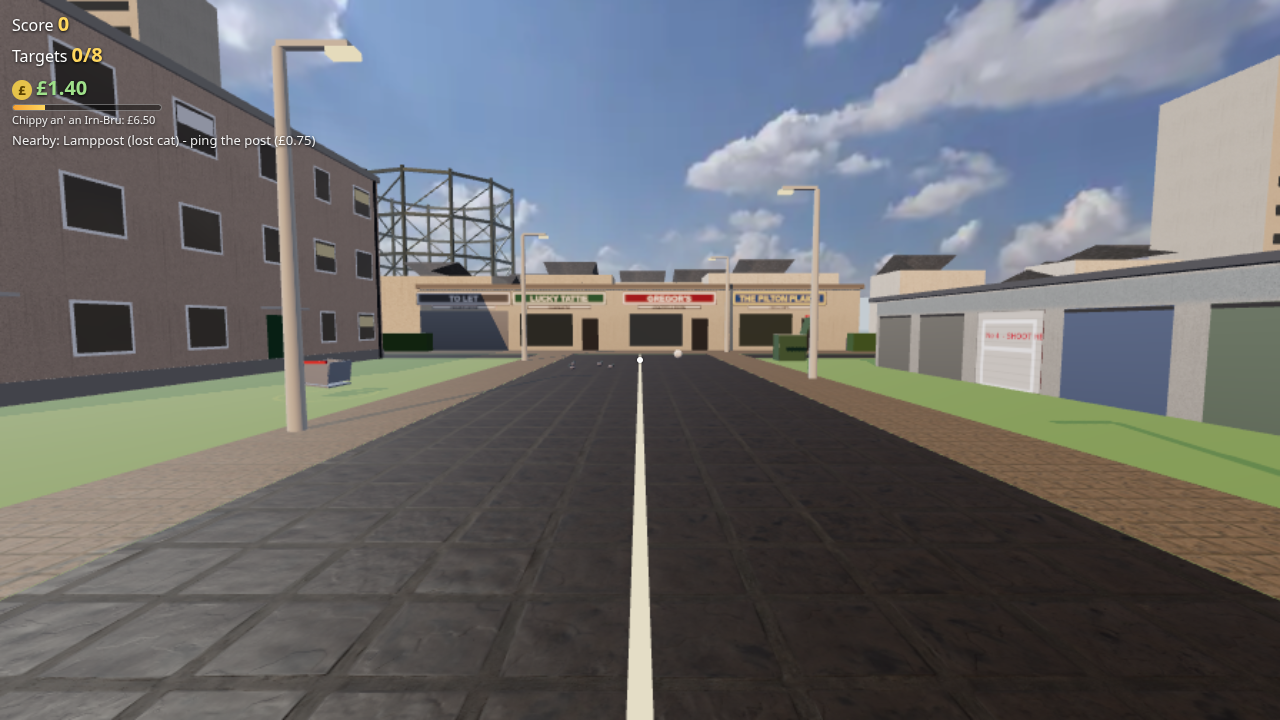
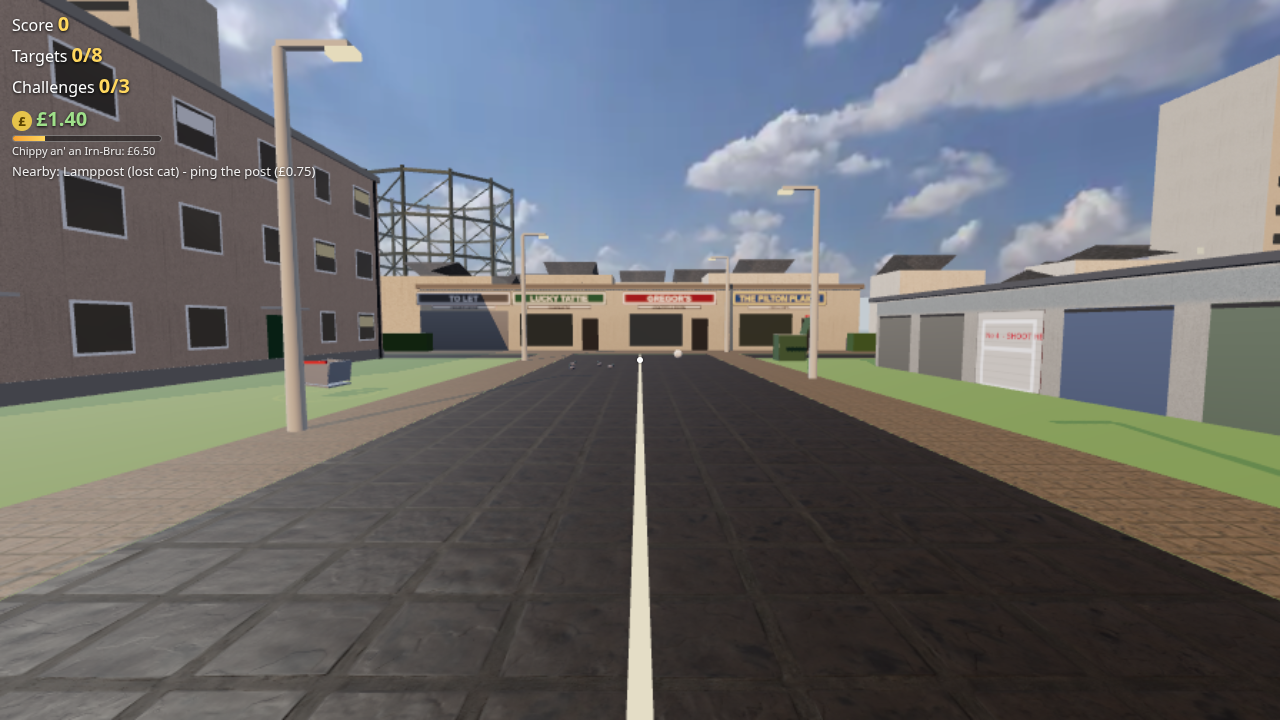
feat: experimental West Pilton challenges, unlocks (Winter ball, Mars bar), ball selector (checkpoint)

Changed region(s): [[0.0, 0.0917, 0.25, 0.2444]]

diff --git a/src/main.js b/src/main.js
@@ -4,7 +4,8 @@ import * as CANNON from 'cannon-es';
 import { HDRLoader } from 'three/examples/jsm/loaders/HDRLoader.js';
 import { PRESET, PRESET_SOURCE, SHOW_PERF, DYNRES, choosePreset } from './settings.js';
 import { LEVEL, LEVELS, LEVEL_ORDER, travelTo } from './levels/index.js';
-import { wallet, earn, buySupper, resetWallet, fmt, GOAL, BONUS, cashFor } from './wallet.js';
+import { unlocks, completeChallenge, selectBall, resetProgress, BALLS, ITEMS, REWARDS, saveUnlocks } from './unlocks.js';
+import { wallet, saveWallet, earn, buySupper, resetWallet, fmt, GOAL, BONUS, cashFor } from './wallet.js';
 import { ballTexture, skyTexture, texManager, texStats } from './textures.js';
 import { Sfx } from './audio.js';
 import { Controls } from './controls.js';
@@ -83,7 +84,9 @@ const G_STATIC = 1, G_PLAYER = 2, G_BALL = 4;
 const built = LEVEL.build(scene, world, mats, P);
 const { targets, dynamics, pigeons, materials, views } = built;
 const SPAWN_YAW = LEVEL.spawnYaw * Math.PI / 180, BOUNDS = LEVEL.bounds;
-const targetById = Object.fromEntries(targets.map((t) => [t.id, t]));
+const challenges = built.challenges || [];
+const allTargets = targets.concat(challenges); // challenges share the scoring code but have their own counter
+const targetById = Object.fromEntries(allTargets.map((t) => [t.id, t]));
 // Static bodies were positioned after construction: refresh their AABBs once, or AABB broadphase misses them.
 // (This stale-AABB effect is also what made SAPBroadphase look "broken" in v1.)
 for (const b of world.bodies) b.updateAABB();
@@ -97,7 +100,7 @@ let yaw = SPAWN_YAW, pitch = -0.25;
 // balls (mass, size, damping unchanged from v1)
 const BALL_R = 0.22;
 const ballGeo = new THREE.SphereGeometry(BALL_R, P.ballSeg[0], P.ballSeg[1]);
-const ballTex = ballTexture();
+const ballTex = ballTexture(unlocks.ball);
 const ballMat = P.pbr ? new THREE.MeshStandardMaterial({ map: ballTex, roughness: 0.36, metalness: 0 }) : new THREE.MeshLambertMaterial({ map: ballTex });
 const BALL_HOMES = LEVEL.ballHomes(views);
 const balls = BALL_HOMES.map(([x, y, z]) => {
@@ -127,7 +130,8 @@ const $ = (id) => document.getElementById(id);
 const sfx = new Sfx();
 let score = 0, started = false, paused = true, chargeT0 = 0, toastTimer = 0;
 function toast(text, ms = 2400) { const el = $('toast'); el.innerHTML = text; el.classList.add('show'); clearTimeout(toastTimer); toastTimer = setTimeout(() => el.classList.remove('show'), ms); }
-function updateHud() { $('scoreVal').textContent = score; $('targetVal').textContent = `${targets.filter((t) => t.done).length}/${targets.length}`; }
+function updateHud() { $('scoreVal').textContent = score; $('targetVal').textContent = `${targets.filter((t) => t.done).length}/${targets.length}`;
+  $('chal').classList.toggle('hidden', !challenges.length); if (challenges.length) $('chalVal').textContent = `${challenges.filter((c) => unlocks.done[c.id]).length}/${challenges.length}`; }
 updateHud();
 // ---------- wallet (pocket money) ----------
 let lastEarn = null;
@@ -140,7 +144,7 @@ function updateWallet(pop = false) {
   if (pop) { $('wallet').classList.remove('pop'); void $('wallet').offsetWidth; $('wallet').classList.add('pop'); }
 }
 function showGoal(bought = false) {
-  $('goalTitle').textContent = bought ? 'One fish supper an\' an Irn-Bru!' : 'Chippy unlocked!';
+  $('goalBig').textContent = '🍟 🥤'; $('goalTitle').textContent = bought ? 'One fish supper an\' an Irn-Bru!' : 'Chippy unlocked!';
   $('goalLine').innerHTML = bought
     ? `"That's ${fmt(GOAL.pence)}, son. Salt an' vinegar? ...Course ye dae."<br><small>Suppers bought: ${wallet.suppers}. Wallet: ${fmt(wallet.pence)}</small>`
     : `You've saved ${fmt(wallet.pence)} - enough for a chippy an' an Irn-Bru.<br><small>${LEVEL.id === 'pilton' ? 'Head to the counter at The Pilton Plaice (top of the street).' : 'Get yersel tae West Pilton - The Pilton Plaice is open.'}</small>`;
@@ -155,9 +159,34 @@ function checkCounter() { // the chippy counter (West Pilton): buy a supper when
   if (!built.counter || simTime < counterCool) return;
   if (Math.hypot(player.position.x - built.counter.x, player.position.z - built.counter.z) > 1.8) return;
   counterCool = simTime + 4;
+  if (unlocks.items.includes('mars')) { openCounter(); return; }
   if (buySupper()) { updateWallet(true); showGoal(true); }
   else toast(`<b>The Pilton Plaice</b><br>"A supper's ${fmt(GOAL.pence)}, pal. You've got ${fmt(wallet.pence)}. Away an' hit some targets."`, 3000);
 }
+function openCounter() {
+  const m = ITEMS.mars;
+  $('cntWallet').textContent = fmt(wallet.pence);
+  $('cntSupper').disabled = wallet.pence < GOAL.pence; $('cntMars').disabled = wallet.pence < m.pence;
+  $('cntLine').innerHTML = '"What can I get ye, pal?"';
+  $('counterCard').classList.remove('hidden'); if (document.pointerLockElement) document.exitPointerLock();
+}
+function buyItem(id) {
+  const m = ITEMS[id]; if (!m || !unlocks.items.includes(id) || wallet.pence < m.pence) return false;
+  wallet.pence -= m.pence; saveWallet(); unlocks.bought[id] = (unlocks.bought[id] || 0) + 1; saveUnlocks(); updateWallet(true); return true;
+}
+$('cntSupper').addEventListener('click', () => { if (buySupper()) { $('counterCard').classList.add('hidden'); updateWallet(true); showGoal(true); } });
+$('cntMars').addEventListener('click', () => { if (buyItem('mars')) { $('cntLine').innerHTML = ITEMS.mars.line + `<br><small>Bought: ${unlocks.bought.mars}</small>`; $('cntWallet').textContent = fmt(wallet.pence); $('cntMars').disabled = wallet.pence < ITEMS.mars.pence; $('cntSupper').disabled = wallet.pence < GOAL.pence; sfx.success(false); } });
+$('cntClose').addEventListener('click', () => { $('counterCard').classList.add('hidden'); if (started && !paused && !controls.touch) renderer.domElement.requestPointerLock?.(); });
+// ---------- ball selector (cosmetic only: same body, mass, size) ----------
+function applyBall(id) { if (!selectBall(id)) return false; ballMat.map = ballTexture(id); ballMat.needsUpdate = true; buildBallMenu(); return true; }
+function buildBallMenu() {
+  const el = $('ballSel'); el.innerHTML = 'Ball: ';
+  for (const [id, b] of Object.entries(BALLS)) { const on = unlocks.balls.includes(id); const btn = document.createElement('button');
+    btn.textContent = on ? b.name : '🔒 ' + b.name; btn.disabled = !on; btn.dataset.ball = id; if (unlocks.ball === id) btn.classList.add('on');
+    btn.addEventListener('click', () => applyBall(id)); el.appendChild(btn); }
+}
+buildBallMenu();
+$('progressReset').addEventListener('click', () => { if (confirm('Reset challenges and unlocks (balls, chippy items)? Your pocket money is kept.')) { resetProgress(); ballMat.map = ballTexture('tango'); ballMat.needsUpdate = true; buildBallMenu(); updateHud(); } });
 // ---------- levels ----------
 $('levelNow').textContent = LEVEL.name; $('levelBlurb').textContent = LEVEL.blurb;
 document.querySelectorAll('[data-level]').forEach((b) => { if (b.dataset.level === LEVEL.id) b.classList.add('on'); b.addEventListener('click', () => { if (b.dataset.level !== LEVEL.id) travelTo(b.dataset.level); }); });
@@ -177,7 +206,7 @@ addEventListener('keydown', (e) => { if (e.code === 'KeyP') setPerf(!perfOn); })
 const controls = new Controls(renderer.domElement, {
   jump, fetchBall,
   requestLock: () => { if (started) renderer.domElement.requestPointerLock?.(); },
-  unlocked: () => { if (started && $('goalCard').classList.contains('hidden')) pause(); },
+  unlocked: () => { if (started && $('goalCard').classList.contains('hidden') && $('counterCard').classList.contains('hidden')) pause(); },
   pause,
   chargeStart: () => { if (!paused) { chargeT0 = performance.now(); $('power').classList.add('on'); } },
   chargeEnd: () => { $('power').classList.remove('on'); if (!paused && chargeT0) kick(Math.min(1, (performance.now() - chargeT0) / 1000)); chargeT0 = 0; },
@@ -253,7 +282,7 @@ function kick(power) {
   v.set(f.x * Math.cos(elev) * speed, Math.sin(elev) * speed, f.z * Math.cos(elev) * speed);
   const w = (speed * Math.cos(elev) / BALL_R) * 0.2; // topspin roughly matching roll
   target.body.angularVelocity.set(f.z * w, (Math.random() - 0.5) * 3, -f.x * w);
-  target.lastKick = performance.now(); target.kickSim = simTime; target.bounces = 0;
+  target.lastKick = performance.now(); target.kickSim = simTime; target.bounces = 0; target.kickFrom = { x: player.position.x, z: player.position.z };
   lastKickInfo = { power, hit: true, speed };
   sfx.kick(power);
   return true;
@@ -277,6 +306,7 @@ let lastRepeat = 0;
 function scoreTarget(t, bonus = null) {
   const now = performance.now();
   if (t.done) { if (now - lastRepeat > 2500) { lastRepeat = now; toast(`Already bagged the ${t.name}.`, 1200); } return; }
+  if (t.challenge) return scoreChallenge(t);
   t.done = true; score += t.points;
   const pence = cashFor(t) + (bonus ? BONUS : 0);
   lastEarn = { id: t.id, pence, bonus };
@@ -290,9 +320,24 @@ function scoreTarget(t, bonus = null) {
   if (all) setTimeout(() => toast(`<b>Pure dead brilliant!</b><br>All ${targets.length} targets done in ${LEVEL.name}.<br><small>Pause to restart, or travel to ${LEVELS[LEVEL.next].name}.</small>`, 7000), 2600);
   updateHud();
 }
+function scoreChallenge(t) {
+  t.done = true;
+  const reward = completeChallenge(t.id); // null if already unlocked earlier (fires once)
+  const line = t.lines[Math.floor(Math.random() * t.lines.length)];
+  if (!reward) { toast(`<b>${t.name}</b> - done again!<br>${line}`, 2400); sfx.success(false); return; }
+  const pence = (t.cash || 0) + (reward.cash || 0); if (pence) { const reached = earn(pence); updateWallet(true); if (reached) setTimeout(showGoal, 4500); }
+  lastEarn = { id: t.id, pence, bonus: null }; lastUnlock = { id: t.id, ...reward };
+  toast(`<b>CHALLENGE! ${t.name.replace('Challenge: ', '')}</b>${pence ? ' +' + fmt(pence) : ''}<br>${line}`, 3500);
+  sfx.success(true); setTimeout(() => sfx.success(true), 350);
+  $('goalTitle').textContent = 'Unlocked!'; $('goalBig').textContent = reward.ball ? '⚽' : reward.item ? '🍫' : '🏆';
+  $('goalLine').innerHTML = `<b>${t.name.replace('Challenge: ', '')}</b><br>${reward.text}<br><small>Challenges: ${challenges.filter((c) => unlocks.done[c.id]).length}/${challenges.length}</small>`;
+  $('goalCard').classList.remove('hidden'); if (document.pointerLockElement) document.exitPointerLock();
+  buildBallMenu(); updateHud();
+}
+let lastUnlock = null;
 function restart() {
   score = 0;
-  for (const t of targets) { t.done = false; t.touched = 0; t.ring.material.color.set(0xffd75e); }
+  for (const t of allTargets) { t.done = false; t.touched = 0; t.ring.material.color.set(0xffd75e); }
   lastTouched = null;
   for (const b of balls) { release(b); b.body.position.copy(b.home); b.body.velocity.setZero(); b.body.angularVelocity.setZero(); b.lastKick = -1e9; b.prevP.copy(b.home); }
   for (const d of dynamics) { d.body.position.copy(d.home); d.body.quaternion.set(0, 0, 0, 1); d.body.velocity.setZero(); d.body.angularVelocity.setZero(); }
@@ -301,7 +346,7 @@ function restart() {
 }
 
 function checkZones(now) {
-  for (const t of targets) {
+  for (const t of allTargets) {
     if (t.done && t.kind !== 'zone') continue;
     if (t.kind === 'zone') {
       for (const b of balls) {
@@ -310,6 +355,7 @@ function checkZones(now) {
         // (plus a small lip allowance) and not rising - it has dropped in, even if it then bounces on the floor.
         const z = t.zone, inside = z.containsPoint(tmpV) || (t.openTop && tmpV.x > z.min.x && tmpV.x < z.max.x && tmpV.z > z.min.z && tmpV.z < z.max.z && tmpV.y > z.min.y && tmpV.y < z.max.y + 0.08 && b.body.velocity.y < 0.5);
         if (!inside || now - b.lastKick > 8000) continue;
+        if (t.minRange && (!b.kickFrom || Math.hypot(b.kickFrom.x - t.rangeFrom.x, b.kickFrom.z - t.rangeFrom.z) < t.minRange)) continue;
         const sp = b.body.velocity.length();
         if (t.minSpeed && sp < t.minSpeed) continue;
         if (t.maxSpeed && sp > t.maxSpeed) continue;
@@ -393,13 +439,18 @@ function render(dt, t) {
   boot.visible = kickAnim < 1 || pitch < -0.6;
   if (chargeT0) $('powerFill').style.width = `${Math.min(1, (performance.now() - chargeT0) / 1000) * 100}%`;
   let near = null, nd = 1e9;
-  for (const tg of targets) {
+  for (const tg of allTargets) {
     const d = Math.hypot(tg.pos.x - iP.x, tg.pos.z - iP.z);
+    if (tg.challenge) { // hidden: ring only when you're right there
+      const o = tg.done ? 0 : THREE.MathUtils.clamp((6 - d) / 3, 0, 0.6) * (0.6 + 0.4 * Math.sin(t * 0.008));
+      tg.ring.material.opacity = o; tg.ring.visible = o > 0.01; if (!tg.done && d < 6 && d < nd) { nd = d; near = tg; } continue;
+    }
     const o = tg.done ? (d < 20 ? 0.25 : 0) : THREE.MathUtils.clamp((16 - d) / 8, 0, 0.85) * (0.75 + 0.25 * Math.sin(t * 0.005));
     tg.ring.material.opacity = o; tg.ring.visible = o > 0.01;
     if (!tg.done && d < 14 && d < nd) { nd = d; near = tg; }
   }
-  $('nearby').textContent = near ? `Nearby: ${near.name} - ${near.hint} (${fmt(cashFor(near))})` : '';
+  $('nearby').textContent = near ? (near.challenge ? `${near.name} - ${near.hint}` : `Nearby: ${near.name} - ${near.hint} (${fmt(cashFor(near))})`) : '';
+  if (built.sparkles) { const left = challenges.some((c) => !unlocks.done[c.id]); built.sparkles.visible = left; built.sparkles.material.opacity = 0.25 + 0.3 * (0.5 + 0.5 * Math.sin(t * 0.004)); }
   pigeons.list.forEach((pg, i) => {
     if (pg.state === 'idle') {
       pg.t -= dt; if (pg.t < 0) { pg.t = 1 + Math.random() * 3; pg.rot += (Math.random() - 0.5) * 2; }
@@ -461,7 +512,7 @@ window.__game = {
   get score() { return score; }, get assetsLoaded() { return assetsLoaded; }, get simTime() { return simTime; }, get resScale() { return resScale; },
   get yaw() { return yaw; }, get pitch() { return pitch; }, get lastKick() { return lastKickInfo; }, get textureMemoryMB() { return +(texStats.bytes / 1048576).toFixed(1); },
   preset: P.name, presetSource: PRESET_SOURCE, views, FIXED, level: LEVEL.id, levelName: LEVEL.name, levels: LEVEL_ORDER, travelTo, counter: built.counter || null,
-  get wallet() { return { ...wallet }; }, get lastEarn() { return lastEarn; }, resetWallet() { resetWallet(); updateWallet(); }, GOAL, scoreTarget,
+  get wallet() { return { ...wallet }; }, challenges, get unlocks() { return JSON.parse(JSON.stringify(unlocks)); }, get lastUnlock() { return lastUnlock; }, applyBall, buyItem, resetProgress() { resetProgress(); buildBallMenu(); updateHud(); }, get ballMap() { return ballMat.map; }, openCounter, get lastEarn() { return lastEarn; }, resetWallet() { resetWallet(); updateWallet(); }, GOAL, scoreTarget,
   waitSim(sec) { const t0 = simTime; return new Promise((res) => { const f = () => (simTime - t0 >= sec ? res() : setTimeout(f, 30)); f(); }); }, targets, balls, player,
   start: () => { started = true; paused = false; $('overlay').classList.add('hidden'); },
   teleport(x, z, yawDeg, pitchDeg = -15, y) { player.position.set(x, y ?? player.position.y, z); player.velocity.setZero(); prevPlayer.copy(player.position); yaw = yawDeg * Math.PI / 180; pitch = pitchDeg * Math.PI / 180; },

diff --git a/src/levels/pilton.js b/src/levels/pilton.js
@@ -262,6 +262,33 @@ function build(scene, world, mats, P) {
     addTarget({ id: 'noballs', name: "'No Ball Games' Sign", hint: 'hit the sign. Go on.', points: 125, cash: 125, diff: 'hard', kind: 'hit', pos: V(x - 0.4, 0, z), ringR: 1.0, stand: V(6.2, 0, z), aim: V(x, y, z),
       lines: ['Ironic. Very ironic.', "Mrs Kerr's at the windae. RUN.", 'The council will be hearing aboot this.'] }); }
 
+  // ---------- optional CHALLENGES (experimental): hidden, hard, separate from the 8 targets ----------
+  const challenges = [];
+  const addChallenge = (t) => { addTarget(t); targets.pop(); t.challenge = true; challenges.push(t); return t; };
+  // C1. Garage roof: lob it up onto the lock-up roof (and keep it there long enough to count)
+  { const yR = 2.86; solid('flat', -13.4, yR + 0.12, GZ0 + 0.1, 7.4, 0.12, 0.14, 0x55575a, { phys: true }); // wee upstand at the back edge
+    addChallenge({ id: 'c_roof', name: 'Challenge: On the Lock-up Roof', hint: 'lob it ONTO the garage roof', points: 0, cash: 100, kind: 'zone', pos: V(-13.4, yR, GZ0 + GN * GW / 2), ringR: 1.6,
+      stand: V(-2.5, 0, 12), aim: V(-13.4, yR + 0.3, 12), zone: new THREE.Box3(V(-16.9, yR, GZ0 + 0.2), V(-10.1, yR + 0.45, GZ0 + GN * GW - 0.2)),
+      lines: ["It's up there wi' the other forty balls.", "Wee Tam's da: 'That's comin' oot yer pocket money.'"] }); }
+  // C2. Mrs Kerr's open upstairs windae (2nd floor of the pitched-roof block)
+  { const x = 10.96, y = 4.65, z = -28.5;
+    quad('flat', x - 0.005, y, z, 1.45, 1.5, -Math.PI / 2, null, 0xf2f2f0);
+    quad('flat', x - 0.012, y - 0.08, z, 1.2, 1.1, -Math.PI / 2, null, 0x0f1012); // open: dark room behind
+    quad('glass', x - 0.016, y + 0.42, z, 1.2, 0.5, -Math.PI / 2, null, 0xffffff); // sash pushed up
+    quad('flat', x - 0.02, y - 0.1, z + 0.45, 0.25, 0.9, -Math.PI / 2, null, 0xd77a9a); // curtain blowing
+    solid('flat', x - 0.1, y - 0.7, z, 0.2, 0.08, 1.45, 0xd8d4cc, { phys: false }); // sill
+    boxBody(x - 0.03, y - 0.05, z, 0.06, 1.05, 1.15, { target: 'c_window' });
+    addChallenge({ id: 'c_window', name: "Challenge: Mrs Kerr's Windae", hint: 'the open window, 2nd floor...', points: 0, cash: 100, kind: 'hit', pos: V(x - 0.6, 0, z), ringR: 1.0, stand: V(4.5, 0, z), aim: V(x, y, z),
+      lines: ["MRS KERR: 'WHO KICKED THAT?!'", 'Straight in the front room. Mind the good china.'] }); }
+  // C3. Long-range drying green: through the poles from the far pavement (14 m+, up the bank)
+  addChallenge({ id: 'c_longpoles', name: 'Challenge: Worldie Through the Poles', hint: 'through the poles from the far side of the road', points: 0, cash: 0, kind: 'zone', pos: V(-4.6, 0, -4), ringR: 0.8,
+    stand: V(-4.6, 0, -4), aim: V(22, rise + 0.3, -4), minRange: 14, rangeFrom: V(19, rise, -4), zone: new THREE.Box3(V(18.7, rise + 0.3, -4.9), V(19.3, rise + 1.5, -3.1)), minSpeed: 1,
+    lines: ['WORLDIE! Fiona would be proud.', 'From there?! Absolute screamer.'] });
+  // faint sparkles mark the challenge spots (one Points draw call)
+  const spk = new THREE.Points(new THREE.BufferGeometry().setFromPoints([V(-13.4, 3.5, 12), V(10.7, 4.9, -28.5), V(-4.6, 0.25, -4)]),
+    new THREE.PointsMaterial({ color: 0xfff2b0, size: 0.22, transparent: true, opacity: 0.5, depthWrite: false }));
+  spk.name = 'challengeSparkles'; scene.add(spk);
+
   // ---------- gulls & pigeons (same instanced system as the Grassmarket) ----------
   const groups = [[-1, 0, -24], [2, 0, 20], [17, rise, -6]].map((p) => V(...p));
   const pig = { list: [], body: new THREE.InstancedMesh(new THREE.SphereGeometry(0.09, 6, 4), null, groups.length * 4), head: new THREE.InstancedMesh(new THREE.SphereGeometry(0.05, 6, 4), null, groups.length * 4) };
@@ -273,7 +300,7 @@ function build(scene, world, mats, P) {
   pig.body.material = materials.pigeon; pig.head.material = materials.pigeonHead; scene.add(pig.body, pig.head);
   const batches = B.build(scene, materials, { shadows: P.shadows });
   const views = { spawn: [0, -36, 180, -8], midstreet: [0, 0, 180, -4], terrace: [15, -4, -90, 2, rise + 0.9] };
-  return { targets, dynamics, pigeons: pig, materials, batches, views, counter: COUNTER };
+  return { targets, challenges, sparkles: spk, dynamics, pigeons: pig, materials, batches, views, counter: COUNTER };
 }
 
 export default {

diff --git a/src/textures.js b/src/textures.js
@@ -136,7 +136,10 @@ export function drawTargetDoor(g) {
 // ---------- football: original 1970s-style "triad" ball (no branding) ----------
 // The pattern is computed in 3D for every texel of an equirectangular map that matches
 // THREE.SphereGeometry's UV layout, so there is no stretching or seam at the poles/date line.
-export function ballTexture() {
+const ballCache = {};
+// style 'tango' (default, Tango/Telstar-inspired) or 'winter' (unlockable: 1980s-style orange winter ball, black pentagons)
+export function ballTexture(style = 'tango') {
+  if (ballCache[style]) return ballCache[style];
   const W = PRESET.texSize <= 512 ? 512 : 1024, H = W / 2;
   const [c, g] = canvas(W, H), img = g.createImageData(W, H), d = img.data;
   const t = (1 + Math.sqrt(5)) / 2;
@@ -156,7 +159,7 @@ export function ballTexture() {
   const R_IN = Math.cos(22 * deg), R_OUT = Math.cos(28 * deg), R_GAP = Math.cos(9 * deg), R_HUB = Math.cos(3.5 * deg);
   const SS = 2;
   for (let py = 0; py < H; py++) for (let px = 0; px < W; px++) {
-    let acc = 0, seam = 0;
+    let acc = 0, seam = 0, pent = 0;
     for (let sy = 0; sy < SS; sy++) for (let sx = 0; sx < SS; sx++) {
       const u = (px + (sx + 0.5) / SS) / W, v = (py + (sy + 0.5) / SS) / H;
       const phi = u * Math.PI * 2, th = v * Math.PI;
@@ -168,6 +171,7 @@ export function ballTexture() {
       const band = bv < R_IN && bv > R_OUT && be < R_GAP;
       const black = band || (bf > R_HUB && bv < R_IN);
       acc += black ? 1 : 0;
+      if (bv / HP > bf / HH) pent++; // inside one of the 12 pentagon panels
       // panel seams: edges of the 32-panel truncated icosahedron (12 pentagons + 20 hexagons),
       // i.e. where the two best face-plane scores (n.p / plane distance) tie.
       const a1 = bv / HP, a2 = bv2 / HP, c1 = bf / HH, c2 = bf2 / HH;
@@ -176,12 +180,13 @@ export function ballTexture() {
     }
     const k = acc / (SS * SS), s = seam / (SS * SS), o = (py * W + px) * 4;
     let r = 244 - k * 226, gg = 243 - k * 225, b = 238 - k * 220;
+    if (style === 'winter') { const pk = pent / (SS * SS); r = 246 - pk * 226; gg = 118 - pk * 100; b = 24 - pk * 8; }
     r -= s * 45; gg -= s * 45; b -= s * 42;
     d[o] = r; d[o + 1] = gg; d[o + 2] = b; d[o + 3] = 255;
   }
   g.putImageData(img, 0, 0);
   const tx = new THREE.CanvasTexture(c); tx.colorSpace = THREE.SRGBColorSpace; tx.anisotropy = 4; track(W, H);
-  return tx;
+  ballCache[style] = tx; return tx;
 }
 function norm(p) { const l = Math.hypot(...p); return [p[0] / l, p[1] / l, p[2] / l]; }
 

diff --git a/src/unlocks.js b/src/unlocks.js
@@ -1,0 +1,19 @@
+// Experimental achievements (West Pilton challenges) + cosmetic rewards. Saved on the device.
+const KEY = 'ek-unlocks';
+export const BALLS = { tango: { name: 'Tango-style (default)' }, winter: { name: "1980s Winter Orange" } };
+export const ITEMS = { mars: { name: 'Deep-fried Mars bar', pence: 120, line: "\"Deep-fried Mars bar, £1.20. Yer cardiologist's on line two.\"" } };
+// which challenge unlocks what
+export const REWARDS = { c_roof: { ball: 'winter', text: 'New ball: the 1980s Winter Orange (pick it in the pause menu)' }, c_window: { item: 'mars', text: 'The Pilton Plaice now sells Deep-fried Mars bars' }, c_longpoles: { cash: 200, text: 'Big-shot bonus: £2.00 pocket money' } };
+function load() { try { const u = JSON.parse(localStorage.getItem(KEY)); if (u && u.done) return { done: u.done, balls: u.balls || ['tango'], ball: u.ball || 'tango', items: u.items || [], bought: u.bought || {} }; } catch {} return { done: {}, balls: ['tango'], ball: 'tango', items: [], bought: {} }; }
+export const unlocks = load();
+export function saveUnlocks() { try { localStorage.setItem(KEY, JSON.stringify(unlocks)); } catch {} }
+// returns the reward the first time a challenge is completed, null afterwards (fires once)
+export function completeChallenge(id) {
+  if (unlocks.done[id]) return null;
+  unlocks.done[id] = true; const r = REWARDS[id] || {};
+  if (r.ball && !unlocks.balls.includes(r.ball)) unlocks.balls.push(r.ball);
+  if (r.item && !unlocks.items.includes(r.item)) unlocks.items.push(r.item);
+  saveUnlocks(); return r;
+}
+export function selectBall(id) { if (!unlocks.balls.includes(id)) return false; unlocks.ball = id; saveUnlocks(); return true; }
+export function resetProgress() { unlocks.done = {}; unlocks.balls = ['tango']; unlocks.ball = 'tango'; unlocks.items = []; unlocks.bought = {}; saveUnlocks(); }

diff --git a/index.html b/index.html
@@ -12,6 +12,7 @@
 <div id="hud">
   <div id="score">Score <b id="scoreVal">0</b></div>
   <div id="targets">Targets <b id="targetVal">0/0</b></div>
+  <div id="chal" class="hidden">Challenges <b id="chalVal">0/3</b></div>
   <div id="wallet"><span class="coin">£</span> <b id="walletVal">£0.00</b>
     <div id="goalBar"><div id="goalFill"></div></div><div id="goalTxt"></div></div>
   <div id="nearby"></div>
@@ -28,7 +29,8 @@
   <button id="btnBall">BALL</button>
   <button id="btnPause">II</button>
 </div>
-<div id="goalCard" class="hidden"><div class="card goal"><div class="big">🍟 🥤</div><h1 id="goalTitle">Chippy unlocked!</h1><p id="goalLine"></p><button id="goalOk">Pure magic</button></div></div>
+<div id="counterCard" class="hidden"><div class="card goal"><div class="big">🐟</div><h1>The Pilton Plaice</h1><p id="cntLine"></p><p><small>Wallet: <b id="cntWallet"></b></small></p><button id="cntSupper">Fish supper + Irn-Bru £6.50</button> <button id="cntMars">Deep-fried Mars bar £1.20</button> <button id="cntClose" class="ghost">Just lookin'</button></div></div>
+<div id="goalCard" class="hidden"><div class="card goal"><div class="big" id="goalBig">🍟 🥤</div><h1 id="goalTitle">Chippy unlocked!</h1><p id="goalLine"></p><button id="goalOk">Pure magic</button></div></div>
 <div id="overlay">
   <div class="card">
     <h1>Edinburgh Kickabout</h1>
@@ -55,6 +57,8 @@
     <button id="restartBtn" class="ghost">Restart level</button>
     <button id="travelBtn" class="ghost">Travel</button>
     <button id="walletReset" class="ghost">Reset pocket money</button>
+    <button id="progressReset" class="ghost">Reset challenges &amp; unlocks</button>
+    <div id="ballSel" class="ballsel"></div>
   </div>
 </div>
 <script type="module" src="/src/main.js"></script>

diff --git a/src/style.css b/src/style.css
@@ -54,3 +54,10 @@ body.touch #crosshair{width:8px;height:8px}
 .levels{font-size:14px;margin:6px 0}
 .card .levels button{font-size:14px;padding:6px 14px;margin:3px;background:#3d4352;color:#fff;border:1px solid #777}
 .card .levels button.on{background:#ffd75e;color:#222}
+#counterCard{position:fixed;inset:0;display:flex;align-items:center;justify-content:center;background:rgba(15,18,28,.55);z-index:25;padding:12px}
+#counterCard.hidden,#chal.hidden{display:none}
+#counterCard button{margin:4px}
+#counterCard button:disabled,.ballsel button:disabled{opacity:.45}
+.ballsel{margin-top:10px;font-size:14px}
+.ballsel button{margin:3px;padding:6px 10px;font-size:13px}
+.ballsel button.on{outline:2px solid #ffd75e}
